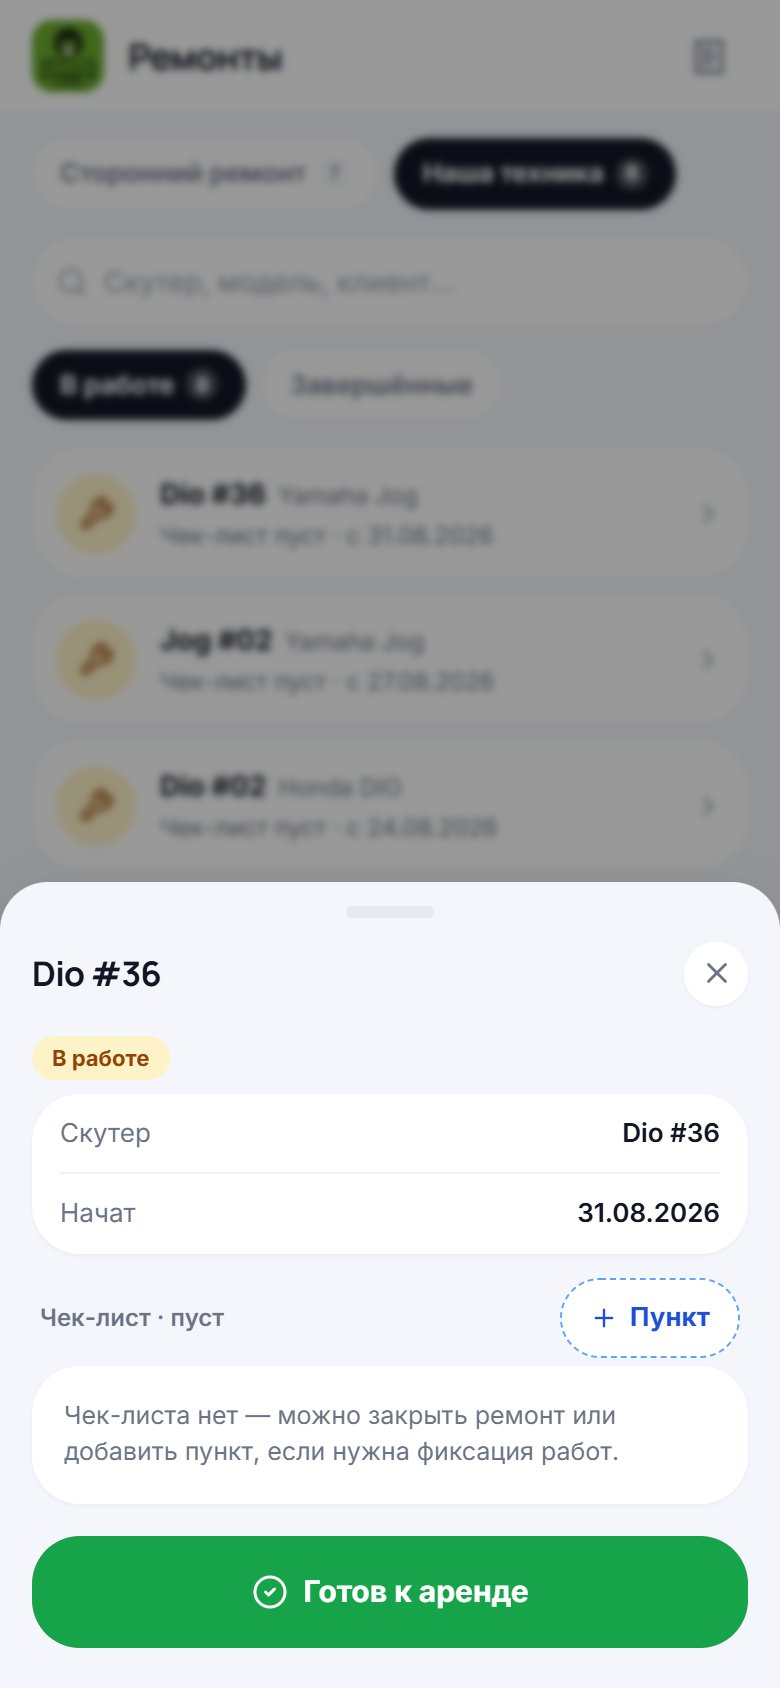
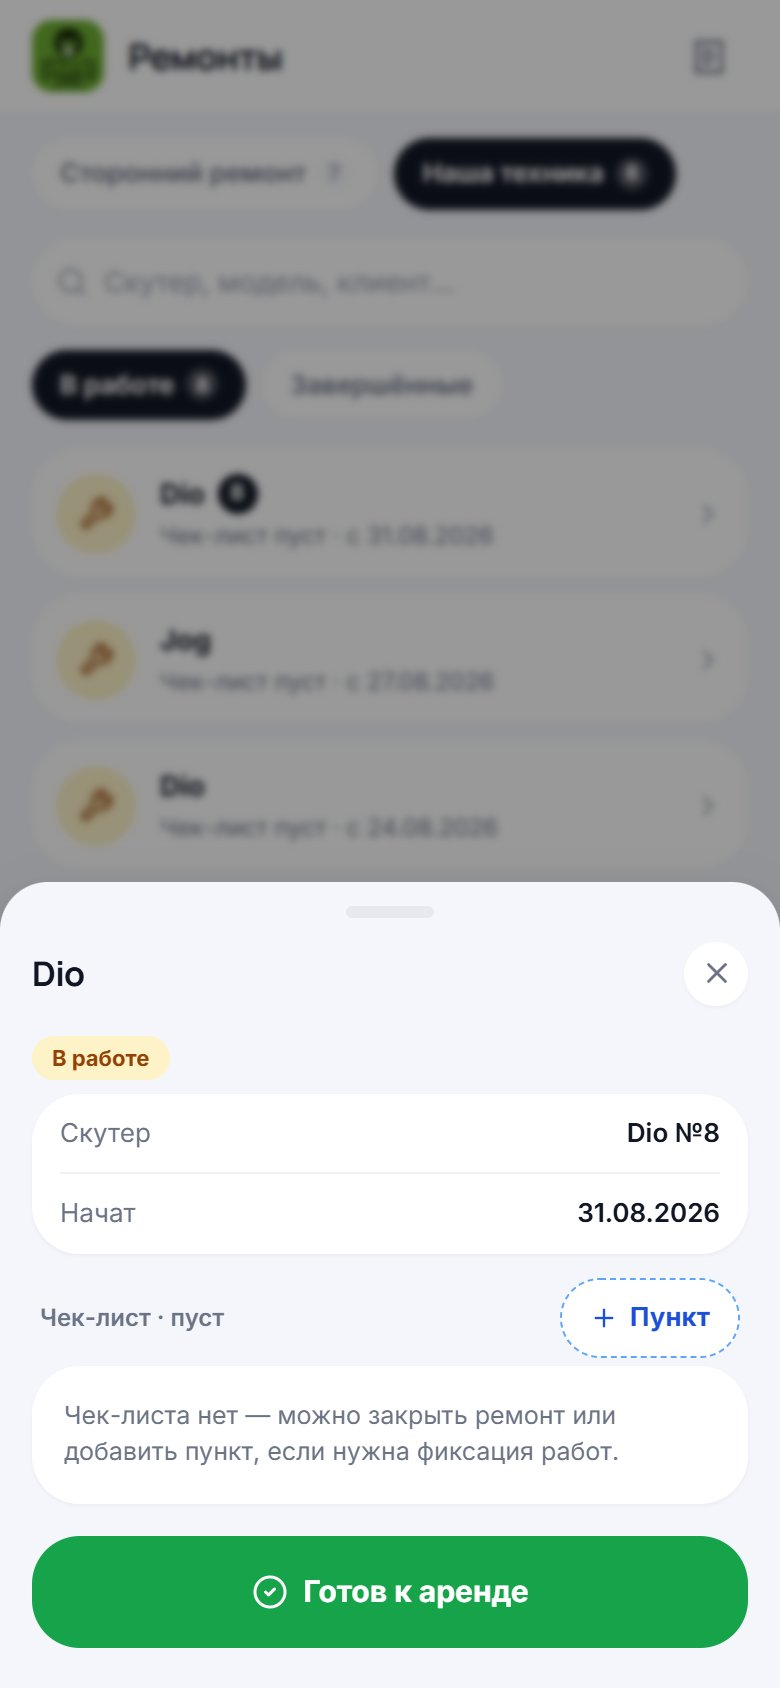
fix(2.0.4): в мобильных ремонтах техника называется моделью с кружком номера (правка потерялась при пересъёмке кадров)

diff --git a/apps/web/src/mobile/pages/MobileService.tsx b/apps/web/src/mobile/pages/MobileService.tsx
@@ -27,7 +27,7 @@ import {
 } from "../ui";
 import { ServiceOrders } from "@/pages/service/ServiceOrders";
 import { useServiceOrders } from "@/lib/api/service-orders";
-import { useModelName } from "@/lib/useModelName";
+import { ScooterName, scooterModelName } from "@/components/ScooterName";
 
 type Filter = "active" | "completed";
 /** Как и на десктопе: главная вкладка — сторонние ремонты (06.09). */
@@ -117,7 +117,7 @@ export function MobileService() {
       <MobileSheet
         open={openJob != null}
         onClose={() => setOpenId(null)}
-        title={openJob?.scooter?.name ?? "Ремонт"}
+        title={openJob?.scooter ? scooterModelName(openJob.scooter.name) : "Ремонт"}
       >
         {openJob && <JobDetail job={openJob} />}
       </MobileSheet>
@@ -128,7 +128,6 @@ export function MobileService() {
 }
 
 function JobRow({ job, onClick }: { job: ApiRepairJob; onClick: () => void }) {
-  const modelName = useModelName();
   const done = job.status === "completed";
   return (
     <button
@@ -145,11 +144,18 @@ function JobRow({ job, onClick }: { job: ApiRepairJob; onClick: () => void }) {
         <Wrench size={18} />
       </div>
       <div className="min-w-0 flex-1">
+        {/* Именование техники: модель + кружок номера (без «Dio #36»). */}
         <div className="truncate text-[14px] font-bold text-ink">
-          {job.scooter?.name ?? "Скутер"}
-          <span className="ml-1.5 text-[12px] font-normal text-muted">
-            {job.scooter ? modelName(job.scooter) : ""}
-          </span>
+          {job.scooter ? (
+            <ScooterName
+              name={job.scooter.name}
+              number={job.scooter.rentalSlot}
+              electric={job.scooter.slotPool === "electric"}
+              size="sm"
+            />
+          ) : (
+            "Скутер"
+          )}
         </div>
         <div className="mt-0.5 truncate text-[12px] text-muted">
           {progressLabel(job.progress)} · с {formatDate(job.startedAt)}
@@ -203,7 +209,7 @@ function JobDetail({ job }: { job: ApiRepairJob }) {
     if (!ok) return;
     try {
       await complete.mutateAsync({ jobId: job.id, newScooterStatus: "rental_pool" });
-      toast.success("Скутер в парке", `${job.scooter?.name ?? "Скутер"} готов к аренде`);
+      toast.success("Скутер в парке", `${job.scooter ? scooterModelName(job.scooter.name) : "Скутер"} готов к аренде`);
     } catch (e) {
       toast.error("Не удалось закрыть ремонт", (e as Error).message ?? "");
     }
@@ -223,7 +229,14 @@ function JobDetail({ job }: { job: ApiRepairJob }) {
       </div>
 
       <div className="rounded-2xl bg-surface px-3.5 shadow-card-sm">
-        <DetailRow label="Скутер" value={job.scooter?.name ?? "—"} />
+        <DetailRow
+          label="Скутер"
+          value={
+            job.scooter
+              ? `${scooterModelName(job.scooter.name)}${job.scooter.rentalSlot != null ? ` №${job.scooter.rentalSlot}` : ""}`
+              : "—"
+          }
+        />
         <div className="border-t border-border" />
         <DetailRow label="Начат" value={formatDate(job.startedAt)} />
         {job.completedAt && (
